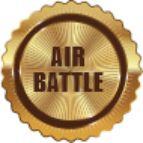
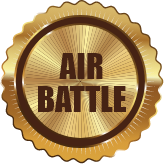
图片替换 (AirBattle)我的积分页页面优化(增加图片、文案等区分) 优化我的积分item view页面UI（增加Expanded,这样可以让Text自动换行） 移除AirBattle tabbuttons滑动导航条 增加AirBattle tabbuttons的上下间距

diff --git a/lib/views/airbattle/airbattle_tab_buttons.dart b/lib/views/airbattle/airbattle_tab_buttons.dart
@@ -48,43 +48,39 @@ class _AirbattleTabButtonsState extends State<AirbattleTabButtons> {
       decoration: BoxDecoration(
           color: hexStringToColor('#3E3E55'),
           borderRadius: BorderRadius.circular(26)),
-      child: Scrollbar(
-        thickness: 5, // 滚动条宽度
-        radius: Radius.circular(2),
-        child: SingleChildScrollView(
-          scrollDirection: Axis.horizontal,
-          child: Row(
-            children: List.generate(widget.titles.length, (index) {
-              return Container(
-                height: 38,
-                padding: EdgeInsets.only(left: 8, right: 8),
-                margin: EdgeInsets.only(
-                    right: index == (widget.titles.length - 1) ? 0 : 24),
-                decoration: BoxDecoration(
-                    color: _selectIndex == index
-                        ? Constants.baseStyleColor
-                        : hexStringToColor('#3E3E55'),
-                    borderRadius: BorderRadius.circular(26)),
-                child: Center(
-                  child: GestureDetector(
-                    child: Constants.regularWhiteTextWidget(
-                        widget.titles[index], 14,
-                        maxLines: 1),
-                    onTap: () {
-                      setState(() {
-                        _selectIndex = index;
-                      });
-                      if (widget.selectTab != null) {
-                        widget.selectTab!(index);
-                      }
-                    },
-                  ),
+      child: SingleChildScrollView(
+        scrollDirection: Axis.horizontal,
+        child: Row(
+          children: List.generate(widget.titles.length, (index) {
+            return Container(
+              height: 30,
+              padding: EdgeInsets.only(left: 8, right: 8),
+              margin: EdgeInsets.only(
+                  right: index == (widget.titles.length - 1) ? 0 : 24),
+              decoration: BoxDecoration(
+                  color: _selectIndex == index
+                      ? Constants.baseStyleColor
+                      : hexStringToColor('#3E3E55'),
+                  borderRadius: BorderRadius.circular(26)),
+              child: Center(
+                child: GestureDetector(
+                  child: Constants.regularWhiteTextWidget(
+                      widget.titles[index], 14,
+                      maxLines: 1),
+                  onTap: () {
+                    setState(() {
+                      _selectIndex = index;
+                    });
+                    if (widget.selectTab != null) {
+                      widget.selectTab!(index);
+                    }
+                  },
                 ),
-              );
-            }),
-          ),
+              ),
+            );
+          }),
         ),
-      ),
+      )
     );
   }
 

diff --git a/lib/views/airbattle/airbattle_my_pucks_list_view.dart b/lib/views/airbattle/airbattle_my_pucks_list_view.dart
@@ -15,13 +15,55 @@ class AirbattleMyPucksListView extends StatefulWidget {
 }
 
 class _AirbattleMyPucksListViewState extends State<AirbattleMyPucksListView> {
+  List<MyPucksModel> _datas = [];
+
+  initDatas() {
+    List<String> _titles = [
+      'Highest Record',
+      'Avg.Record',
+      'Play Times',
+      'Break Record'
+    ];
+    List<String> _imageNames = ['highest', 'avg', 'playtimes', 'break'];
+    List<String> _dess = [
+      'Rank 100',
+      'Your average React Time in this Air Battle',
+      'Rank 100',
+      'Rank 100'
+    ];
+    List<String> _units = ['Sec/pt', 'Sec/pt', 'Sec/pt', 'Sec/pt'];
+    List<bool> _specialShows = [true, false, true, true];
+    for(int i = 0; i < _imageNames.length; i ++){
+      MyPucksModel model = MyPucksModel();
+      model.title = _titles[i];
+      model.des = _dess[i];
+      model.unit = _units[i];
+      model.inageName =   'images/airbattle/${_imageNames[i]}.png';
+      model.specialShow = _specialShows[i];
+      _datas.add(model);
+    }
+    setState(() {
+
+    });
+
+  }
+
+  @override
+  void initState() {
+    // TODO: implement initState
+    super.initState();
+    initDatas();
+  }
+
   @override
   Widget build(BuildContext context) {
     return ListView.separated(
-        physics: NeverScrollableScrollPhysics(), // 禁止滑动
-        shrinkWrap: true, // ListView 的 shrinkWrap 属性设置为 true，可以让 ListView 根据其内容的实际高度来调整自身大小，而不是无限扩展
+        physics: NeverScrollableScrollPhysics(),
+        // 禁止滑动
+        shrinkWrap: true,
+        // ListView 的 shrinkWrap 属性设置为 true，可以让 ListView 根据其内容的实际高度来调整自身大小，而不是无限扩展
         itemBuilder: (context, index) {
-          return AirbattleMyPucksView(model: MyPucksModel());
+          return AirbattleMyPucksView(model: _datas[index]);
         },
         separatorBuilder: (context, index) {
           return Container(

diff --git a/lib/views/airbattle/airbattle_my_pucks_view.dart b/lib/views/airbattle/airbattle_my_pucks_view.dart
@@ -29,25 +29,25 @@ class _AirbattleMyPucksViewState extends State<AirbattleMyPucksView> {
             SizedBox(
               width: 32,
             ),
-            Column(
-              crossAxisAlignment: CrossAxisAlignment.start,
-              children: [
-                Constants.regularGreyTextWidget(widget.model.title, 16),
-                SizedBox(height: 12,),
-                Row(
-                  crossAxisAlignment: CrossAxisAlignment.end,
-                  children: [
-                    Constants.regularWhiteTextWidget(widget.model.value, 40,height: 0.8,),
-                    SizedBox(width: 4,),
-                    Constants.regularWhiteTextWidget(widget.model.unit, 14),
-                  ],
-                ),
-                SizedBox(height: 12,),
-                widget.model.specialShow
-                    ? Constants.regularBaseTextWidget(widget.model.des, 14)
-                    : Constants.regularGreyTextWidget(widget.model.des, 14)
-              ],
-            )
+           Expanded(child:  Column(
+             crossAxisAlignment: CrossAxisAlignment.start,
+             children: [
+               Constants.regularGreyTextWidget(widget.model.title, 16),
+               SizedBox(height: 12,),
+               Row(
+                 crossAxisAlignment: CrossAxisAlignment.end,
+                 children: [
+                   Constants.regularWhiteTextWidget(widget.model.value, 40,height: 0.8,),
+                   SizedBox(width: 4,),
+                   Constants.regularWhiteTextWidget(widget.model.unit, 14),
+                 ],
+               ),
+               SizedBox(height: 12,),
+               widget.model.specialShow
+                   ? Constants.regularBaseTextWidget(widget.model.des, 14)
+                   : Constants.regularGreyTextWidget(widget.model.des, 14,textAlign: TextAlign.start,height: 1.2)
+             ],
+           ))
           ],
         ),
         SizedBox(
